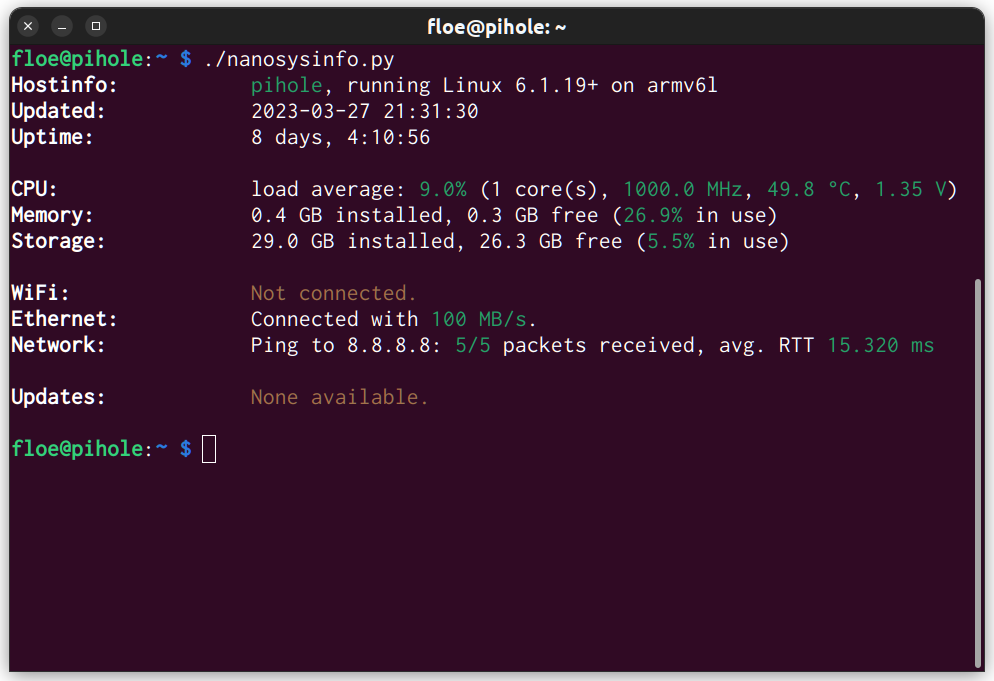
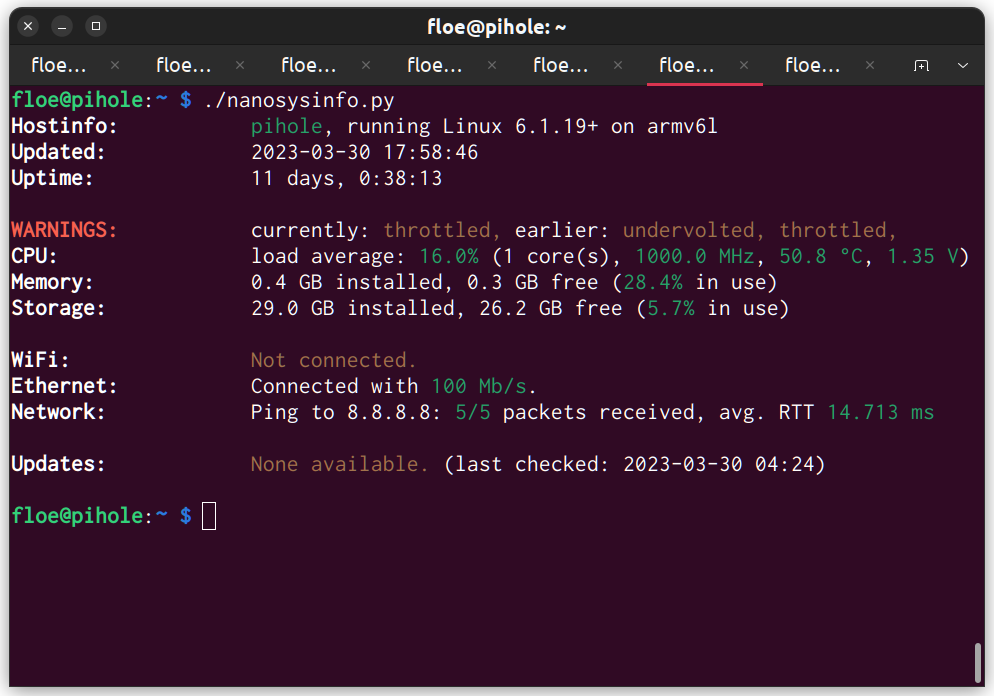
add Raspberry Pi CPU error detection

diff --git a/nanosysinfo.py b/nanosysinfo.py
@@ -50,18 +50,21 @@ def sanitize(content):
         content = content.decode("utf-8")
     return content.strip()
 
+pierrors = { 0: "undervolted", 1: "frequency capped", 2: "throttled", 3: "soft thermal limit" }
 
 class mysysinfo:
 
     def __init__(self,format_helper):
         self.fancy = format_helper
 
-    def fancy_output(self,heading,content):
+    def fancy_output(self,heading,content,color=None):
+        if color == None:
+            color = self.fancy.white
         heading += ":"
         heading = f"{heading: <20}"
         heading += self.fancy.reset+self.fancy.reset
         content = indent(content,"                    ").strip()
-        return self.fancy.bold+self.fancy.white+heading+content+"\n"
+        return self.fancy.bold+color+heading+content+"\n"
 
     def percent_to_color(self,percent):
         if percent > 75:
@@ -100,11 +103,23 @@ class mysysinfo:
 
         # volts
         volts = ""
+        warn = ""
         try:
-            # TODO: include vcgencmd get_throttled
             tmp = sanitize(check_output(["vcgencmd","measure_volts","core"]))
             val = float(tmp.split("=")[1].strip("V"))
             volts = f", {self.fancy.green}{val} V{self.fancy.reset}"
+            tmp = sanitize(check_output(["vcgencmd","get_throttled"]))
+            val = int(tmp.split("x")[1],16)
+            for shift,label in { 0: "currently", 16: "earlier" }.items():
+                if val & (15 << shift):
+                    warn += label+": "+self.fancy.yellow
+                    for bit,flag in pierrors.items():
+                        if val & (1 << bit+shift):
+                            warn += flag+", "
+                    warn += self.fancy.reset
+            warn = warn.strip(", ")
+            if warn != "":
+                result += self.fancy_output("WARNINGS",warn,self.fancy.red)
         except:
             pass
 
